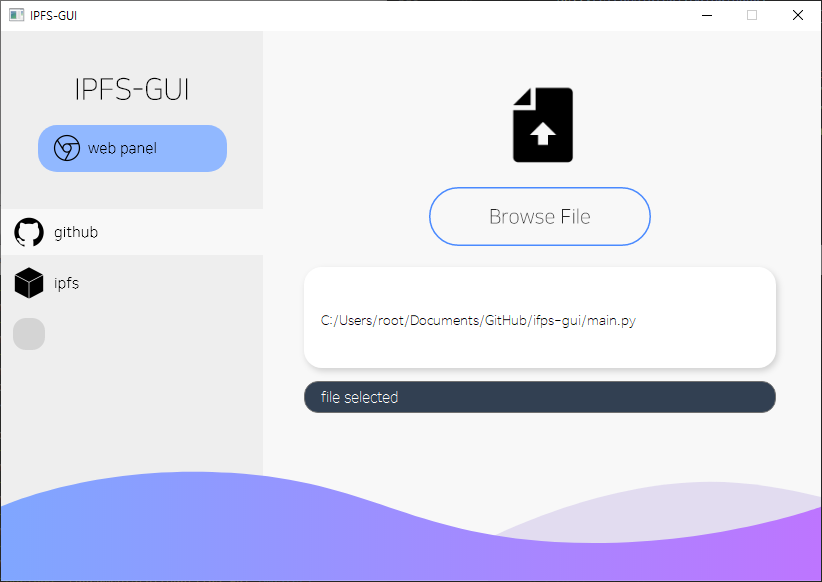
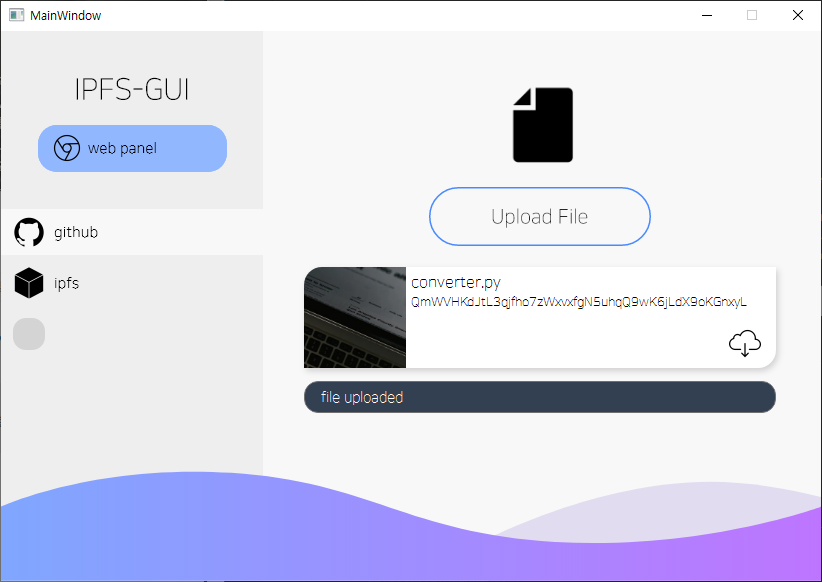
DOC: update readme

diff --git a/design/ui/main-v0.0.py b/design/ui/main-v0.0.py
@@ -19,7 +19,6 @@ class Ui_MainWindow(object):
         self.label = QtWidgets.QLabel(self.centralwidget)
         self.label.setGeometry(QtCore.QRect(0, 0, 820, 550))
         self.label.setText("")
-        #self.label.setPixmap(QtGui.QPixmap(":/background/custom – 1.png"))
         self.label.setPixmap(QtGui.QPixmap("design/png/background.png"))
         self.label.setObjectName("label")
         self.browse_file_btn = QtWidgets.QLabel(self.centralwidget)
@@ -87,16 +86,10 @@ class Ui_MainWindow(object):
         self.file_label.setText(fileName[0])
         self.result_label.setText("file selected")
 
-#import image_rc
-
 
 if __name__ == "__main__":
     ipfs = ipfs()
     ipfs.isWindows64()
-    #ipfs.init()
-    #ipfs.daemon()
-    print('output:',ipfs.add('C:/Users/root/Documents/GitHub/ifps-gui/lib/ipfs.py'))
-
     import sys
     app = QtWidgets.QApplication(sys.argv)
     MainWindow = QtWidgets.QMainWindow()

diff --git a/main-v0.1.py b/main-v0.1.py
@@ -134,6 +134,7 @@ class Ui_MainWindow(object):
                 self.hash = result
                 self.file_label.setText(result)
                 self.file_title_label.setText(self.file_name.split('/')[-1])
+                self.result_label.setText('file uploaded')
             else:
                 self.result_label.setText('ipfs add error')
 

diff --git a/README.md b/README.md
@@ -1,5 +1,11 @@
 # ifps-gui
 
 pyqt로 제작한 ifps-gui입니다.
+ipfs의 버전은 win64입니다.
 
-![](design/png/background.png)
+![](design/preview.png)
+
+## start
+```
+python main-v0.1.py
+```
